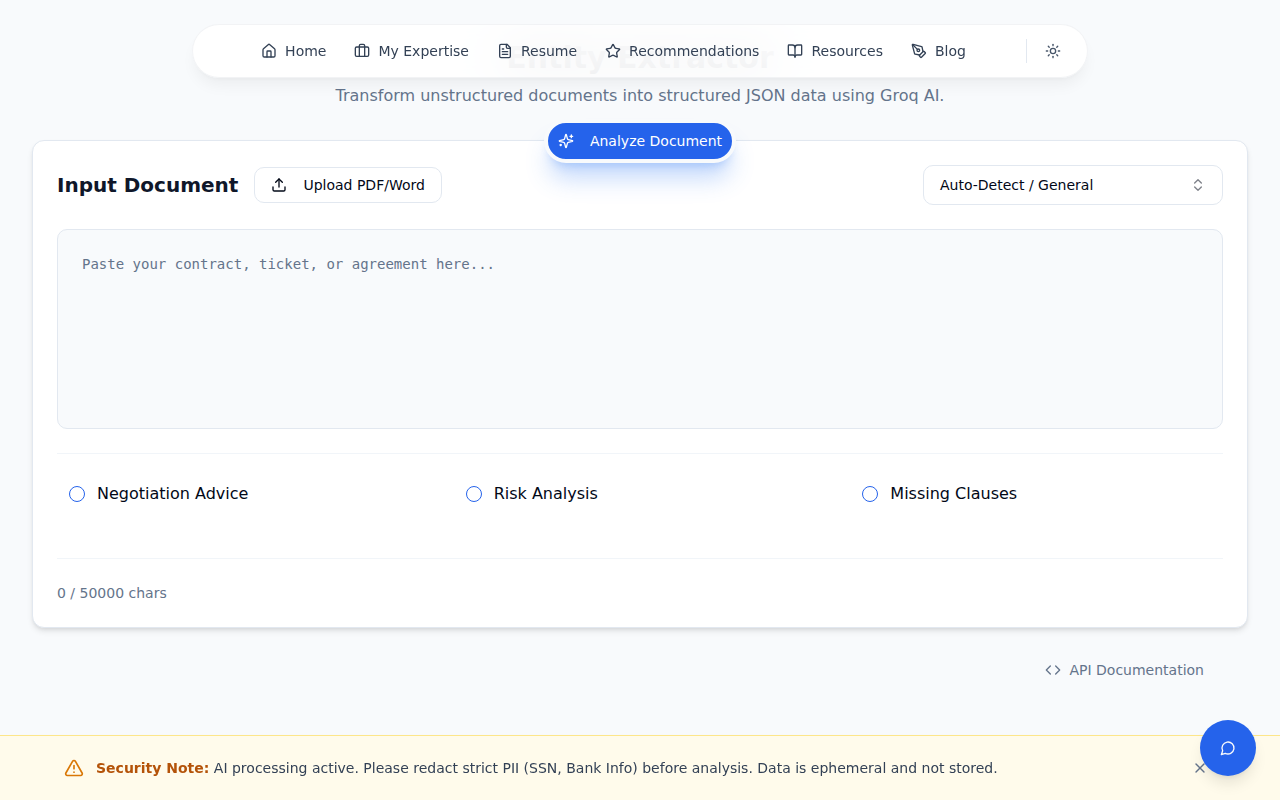
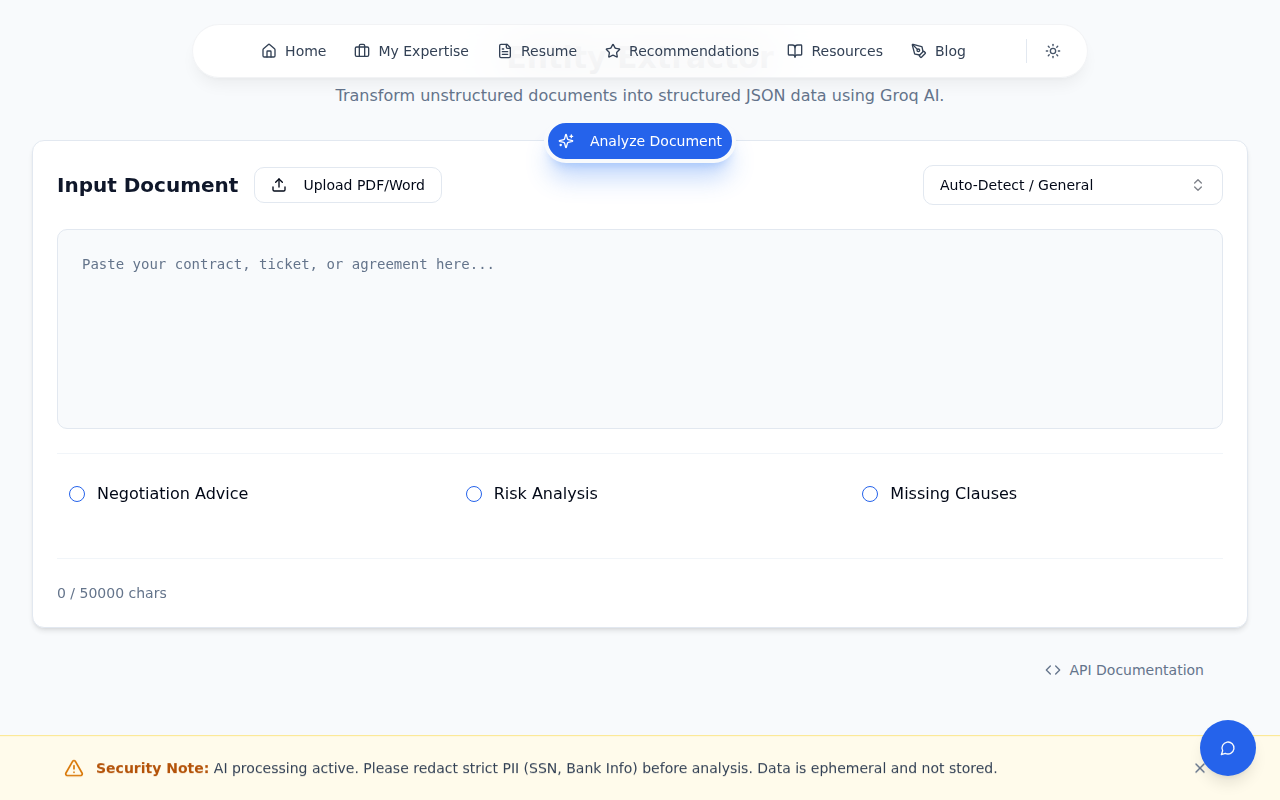
Refactor Code Translator and Tune UI Padding
- Update Code Translator (`app/tools/translator/page.tsx` & `actions/translate.ts`):
  - Focus strictly on translation by removing "Security Warning" UI/logic.
  - Implement robust Regex-based JSON parsing fallback to handle AI formatting errors.
  - Improve UX: Add Q&A functionality and auto-highlight placeholder text on focus.
- Harmonize UI (`app/tools/translator/page.tsx` & `app/resources/tools/extractor/page.tsx`):
  - Standardize top padding to `pt-28 md:pt-32` on both tools based on user feedback.
  - Fix `ReferenceError: Sparkles is not defined` in Extractor.
  - Center titles and remove "Enterprise" branding.

diff --git a/app/tools/translator/page.tsx b/app/tools/translator/page.tsx
@@ -224,7 +224,7 @@ export default function CodeTranslatorPage() {
       <FloatingNav />
 
       {/* Increased top padding to pt-36 for consistent spacing */}
-      <main className="pt-36 pb-12 px-4 md:px-8 max-w-[1600px] mx-auto flex flex-col gap-6">
+      <main className="pt-28 md:pt-32 pb-12 px-4 md:px-8 max-w-[1600px] mx-auto flex flex-col gap-6">
         {/* Header */}
         <div className="flex flex-col items-center justify-center mb-2 gap-2 z-10 relative text-center">
             {/* Logo removed as requested */}

diff --git a/app/resources/tools/extractor/page.tsx b/app/resources/tools/extractor/page.tsx
@@ -394,7 +394,7 @@ export default function ExtractorPage() {
       <FloatingNav />
 
       {/* Increased top padding to pt-52 to ensure title is not hidden behind nav */}
-      <div className="p-4 md:p-8 pt-32 md:pt-52 max-w-[1600px] mx-auto">
+      <div className="p-4 md:p-8 pt-28 md:pt-32 max-w-[1600px] mx-auto">
       {/* Header */}
       <div className="flex flex-col gap-4 mb-8 items-center text-center">
         <div className="flex flex-col items-center mt-2">
